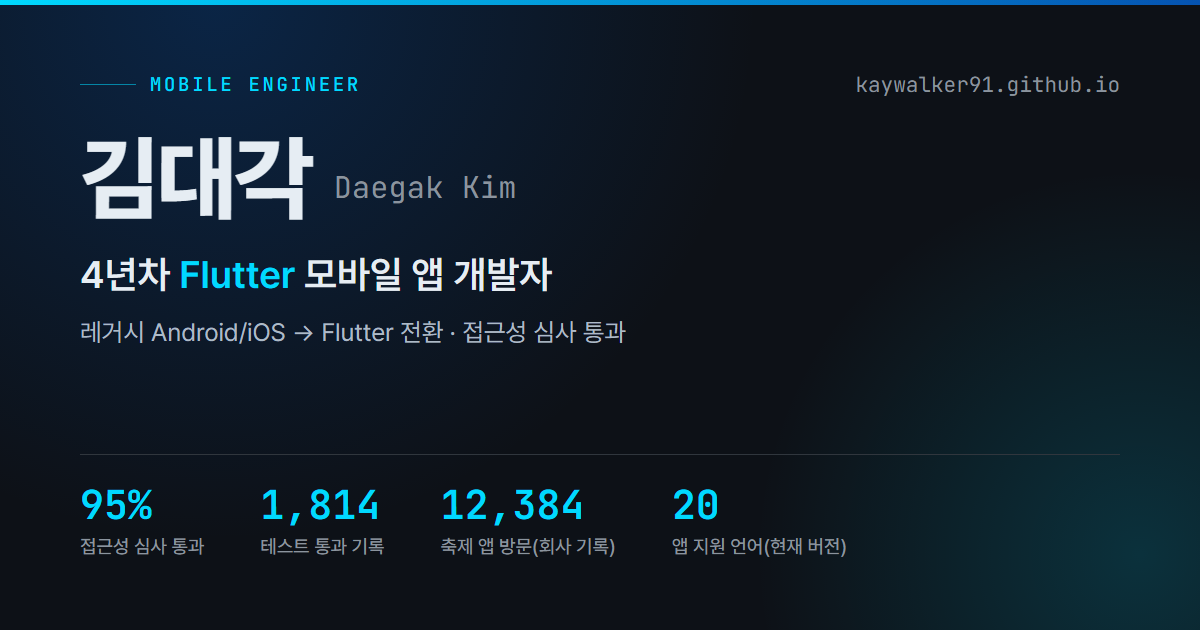
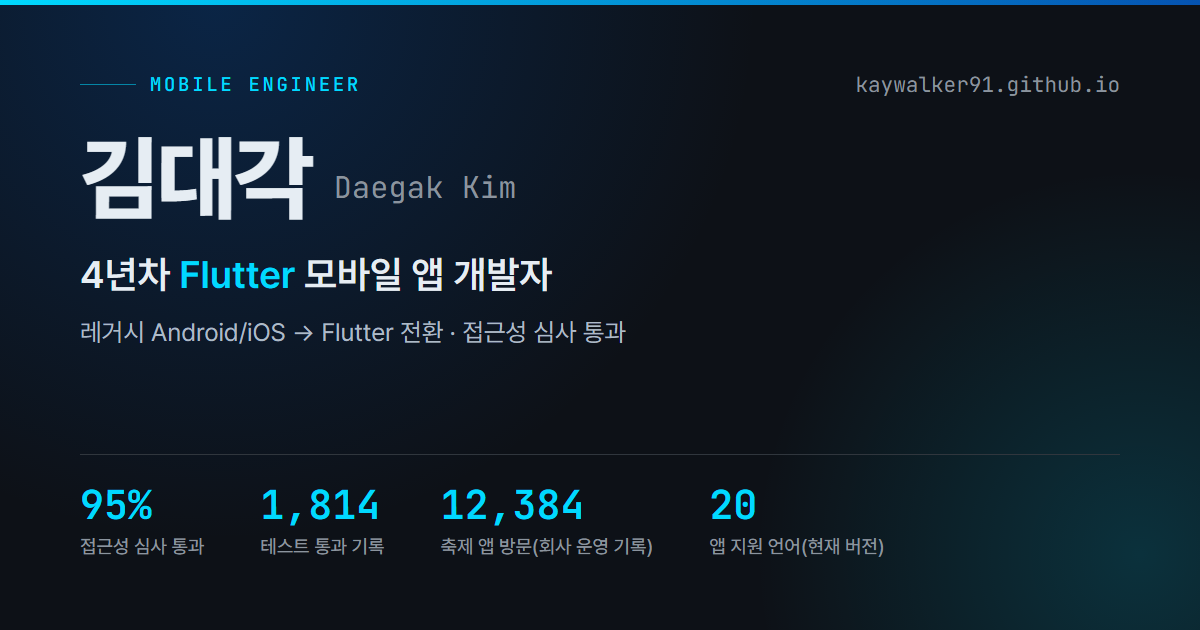
fix: 리뷰 보류 항목 정리 — 공유 카드 표기·영문 역할·성과 아이콘·주석
- 공유 카드 축제 수치 라벨을 '회사 운영 기록'으로 통일하고 og-image.png 재생성
- 틀린그림찾기 영문 역할 'Owned' → 'Primarily responsible' (국문 '중심 담당'에 맞춤)
- 성과 1번(접근성) 아이콘을 사람 모양으로 바꿔 2번(테스트)과 구분
- projectData 주석을 현재 구조(en 포함)에 맞게 고치고 공개 JS의 내부 메모 주석 삭제
- 에셋 캐시 버전 20261013d

Changed region(s): [[0.4625, 0.754, 0.74, 0.9048]]

diff --git a/index.html b/index.html
@@ -51,12 +51,12 @@
        HTML while still running the previous CSS/JS from cache — which silently
        breaks any change that spans markup and script together. Bump every ?v=
        below (same value) whenever css/ or js/ ships. -->
-  <link rel="stylesheet" href="css/reset.css?v=20261013c">
-  <link rel="stylesheet" href="css/variables.css?v=20261013c">
-  <link rel="stylesheet" href="css/layout.css?v=20261013c">
-  <link rel="stylesheet" href="css/components.css?v=20261013c">
-  <link rel="stylesheet" href="css/animations.css?v=20261013c">
-  <link rel="stylesheet" href="css/tailwind.css?v=20261013c">
+  <link rel="stylesheet" href="css/reset.css?v=20261013d">
+  <link rel="stylesheet" href="css/variables.css?v=20261013d">
+  <link rel="stylesheet" href="css/layout.css?v=20261013d">
+  <link rel="stylesheet" href="css/components.css?v=20261013d">
+  <link rel="stylesheet" href="css/animations.css?v=20261013d">
+  <link rel="stylesheet" href="css/tailwind.css?v=20261013d">
 
   <title>김대각 - 4년차 Flutter 모바일 앱 개발자</title>
 
@@ -318,7 +318,8 @@
           <div class="impact-stat group">
             <div class="impact-stat__icon" aria-hidden="true">
               <svg viewBox="0 0 24 24" fill="none" stroke="currentColor" stroke-width="2">
-                <path d="M9 12l2 2 4-4M12 2a10 10 0 100 20 10 10 0 000-20z" />
+                <circle cx="12" cy="4" r="2" />
+                <path d="M5 8l7 1 7-1M12 9v5l-3 7M12 14l3 7" />
               </svg>
             </div>
             <div class="impact-stat__number-wrap flex items-baseline justify-center">
@@ -1397,12 +1398,12 @@
   </footer>
 
   <!-- Scripts -->
-  <script src="js/theme.js?v=20261013c"></script>
-  <script src="js/translations.js?v=20261013c"></script>
-  <script src="js/i18n.js?v=20261013c"></script>
-  <script src="js/counter.js?v=20261013c"></script>
-  <script src="js/navigation.js?v=20261013c"></script>
-  <script src="js/main.js?v=20261013c"></script>
+  <script src="js/theme.js?v=20261013d"></script>
+  <script src="js/translations.js?v=20261013d"></script>
+  <script src="js/i18n.js?v=20261013d"></script>
+  <script src="js/counter.js?v=20261013d"></script>
+  <script src="js/navigation.js?v=20261013d"></script>
+  <script src="js/main.js?v=20261013d"></script>
 </body>
 
 </html>

diff --git a/js/main.js b/js/main.js
@@ -321,9 +321,9 @@ function setupImpactCounters() {
   });
 }
 
-// Panel content for the project accordion. Kept in JS rather than markup
-// because it is Korean-only prose with no en counterpart — moving it into the
-// document would demand ~150 translation keys that do not exist yet.
+// Panel content for the project accordion. Kept in JS rather than markup:
+// each entry holds its Korean prose plus an `en` override, which would
+// otherwise take ~150 translation keys.
 const projectData = {
   pllilab: {
     title: 'PLLI Lab',
@@ -381,7 +381,7 @@ const projectData = {
     tech: ['JavaScript', 'Node.js', 'Firestore', 'Node SEA', 'PowerShell', 'NFC'],
     links: {},
     en: {
-      role: 'Owned the server and admin web',
+      role: 'Primarily responsible for the server and admin web',
       features: [
         'NFC helper wired across server, Windows and admin — PC registration/approval and assignment and resume of card-issuing jobs',
         'Storage and auth paths reworked so overlapping requests never process a job twice',

diff --git a/js/translations.js b/js/translations.js
@@ -89,7 +89,6 @@ const translations = {
     'experience.forlong.summary': '멀티체인 크립토 지갑 & 소셜 트레이딩 플랫폼 MVP에서 지갑 연결을 계획서로 인계받아 단독 구현했습니다. 지갑 앱을 오가는 승인·서명 흐름의 응답 순서 충돌·서명 유실·QR 창 잔류를 고쳤습니다.',
     'experience.siseon.duration': '1년 1개월',
     'experience.siseon.role': '사업부 · 대리 3년차 · SI개발',
-    // D2: Kay님이 '단독'을 빼라고 하면 "Flutter로 전환했습니다"로 쓰고, en의 "Single-handedly "도 지운다.
     'experience.siseon.summary': '재난안전 앱 안전디딤돌·이머전시레디의 Android/iOS 레거시를 Flutter로 단독 전환했습니다. 위치 기반 지역 재난 알림·대피시설 검색과 다국어 화면·음성 안내를 구현하고 접근성 심사(준수율 95%)를 통과했습니다.',
     'experience.placelink.duration': '2년 2개월',
     'experience.placelink.role': '개발팀 · 대리/팀원 2년차 · 앱개발',

diff --git a/assets/og-image.source.html b/assets/og-image.source.html
@@ -190,7 +190,7 @@
       </div>
       <div class="stat">
         <div class="stat__value">12,384</div>
-        <div class="stat__label">축제 앱 방문(회사 기록)</div>
+        <div class="stat__label">축제 앱 방문(회사 운영 기록)</div>
       </div>
       <div class="stat">
         <div class="stat__value">20</div>
